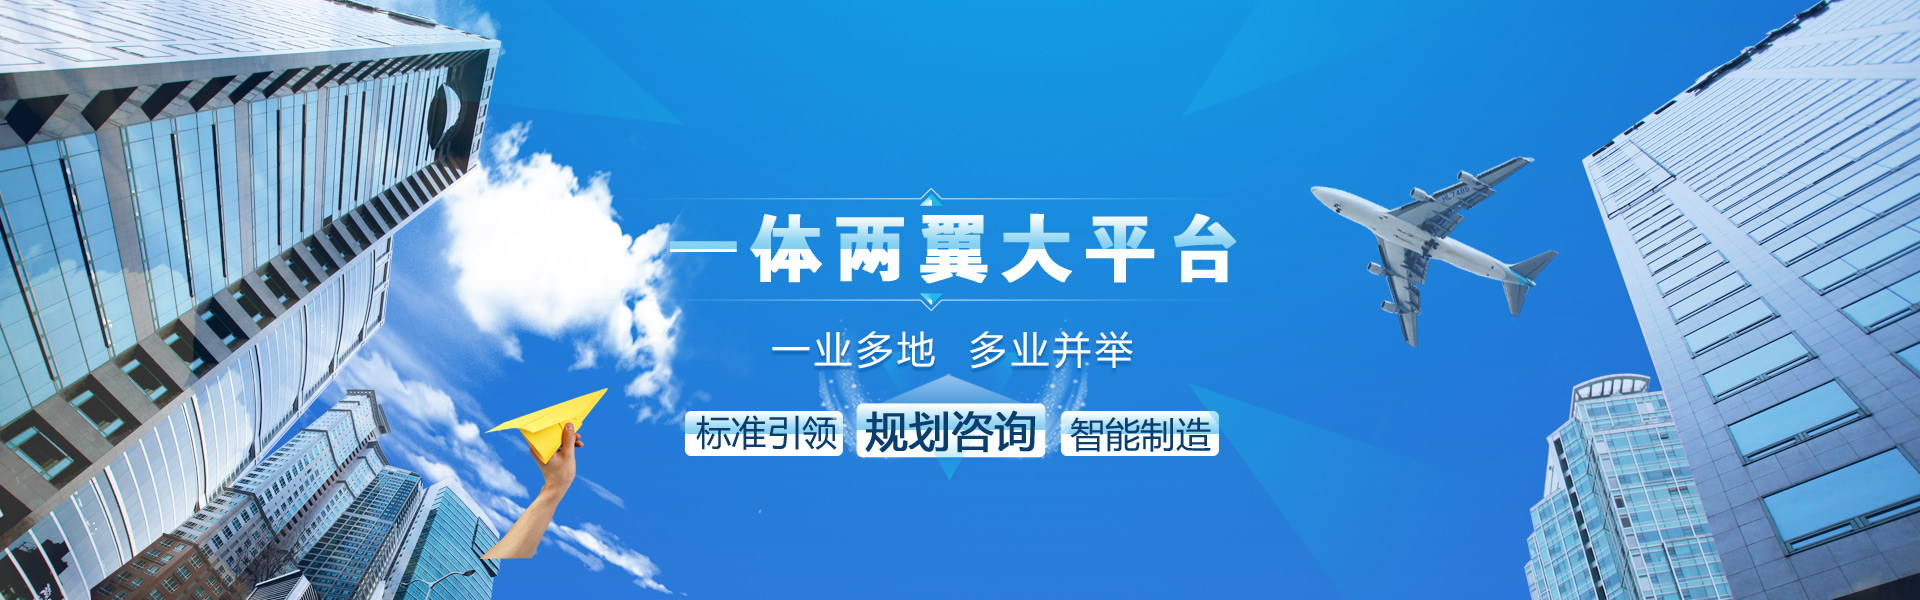
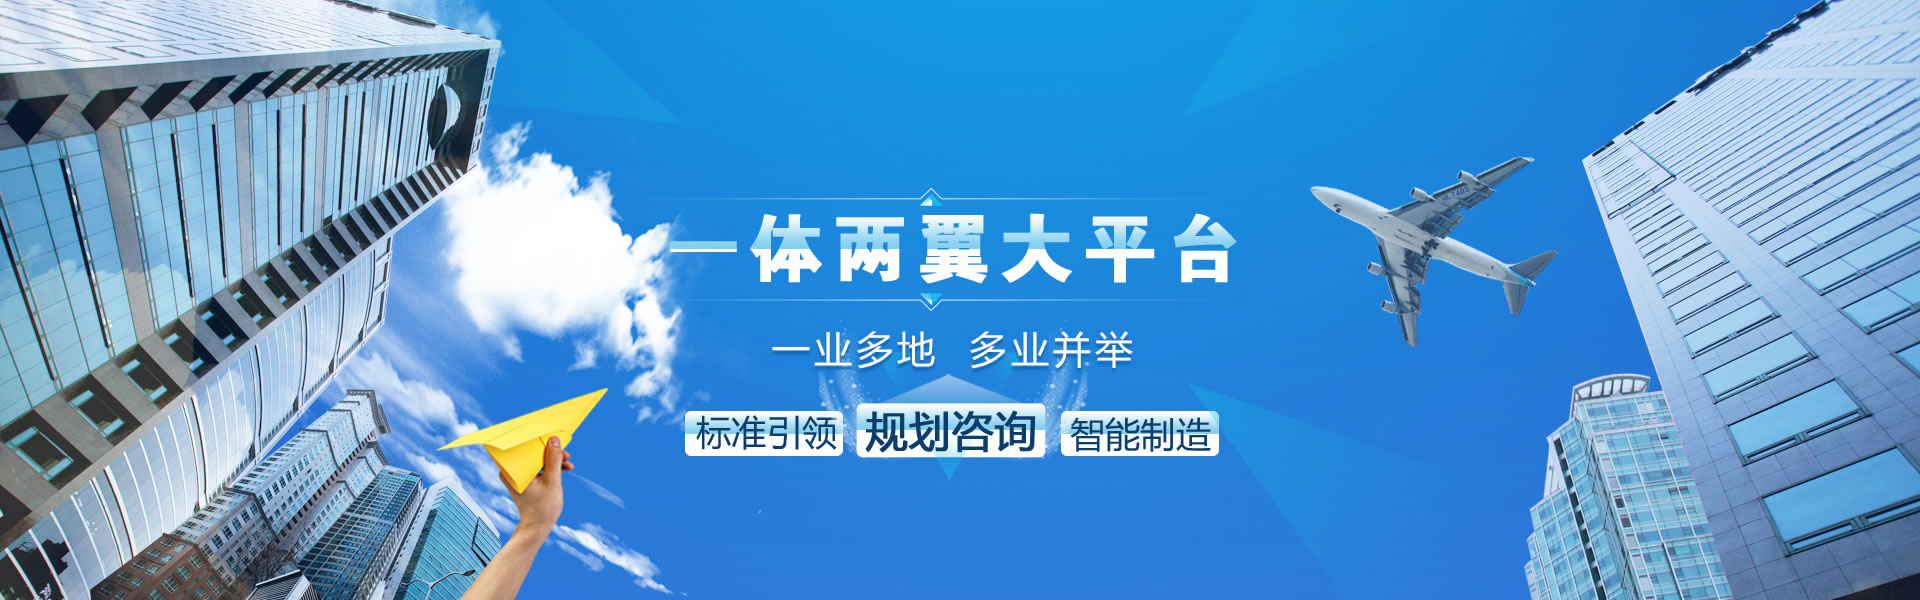
图片新闻轮播展示，子页面细节高度

Changed region(s): [[0.2188, 0.69, 0.3125, 1.0]]

diff --git a/index.html b/index.html
@@ -169,17 +169,20 @@
 					</ol>
 					<div class="carousel-inner" role="listbox">
 						<div class="item active">
-							<a href="#" style="background-image: url(imgs/banner1.jpg)">
+							<a title="中国钢结构协会钢材标准化技术委员会成立大会今在北京召开" href="#">
+                                <img alt="中国钢结构协会钢材标准化技术委员会成立大会今在北京召开" src="imgs/banner1.jpg"/>
 								<div class="carousel-caption">中国钢结构协会钢材标准化技术委员会成立大会今在北京召开</div>
 							</a>							
 						</div>
 						<div class="item">
-							<a href="#" style="background-image: url(imgs/banner2.jpg)">
+							<a title="冶金工业规划学院建院45周年特别庆典" href="#">
+                                <img alt="冶金工业规划学院建院45周年特别庆典" src="imgs/banner2.jpg" />
 								<div class="carousel-caption">冶金工业规划学院建院45周年特别庆典</div>
 							</a>
 						</div>
 						<div class="item">
-							<a href="#" style="background-image: url(imgs/banner3.jpg)">
+							<a title="热烈恭迎冶金工区刘院长来我院做指导工作" href="#">
+                                <img alt="热烈恭迎冶金工区刘院长来我院做指导工作" src="imgs/banner3.jpg" />
 						  		<div class="carousel-caption">热烈恭迎冶金工区刘院长来我院做指导工作</div>
 							</a>
 						</div>

diff --git a/css/main.css b/css/main.css
@@ -376,22 +376,16 @@ body {
 /*小播放器*/
 .meta-banner{
 	padding-right: 0;
-	/*height: 350px;*/
-	overflow: hidden;
     width:34.5%;
-}
-.meta-banner .carousel{
-	/*border:1px solid #E1E1E1;*/
-    /*padding:2px;*/
 }
 .meta-banner .carousel-inner .item a{
 	/*height: 304px;*/
 	height: 310px;
-	background-color: #EFEFEF;
-	background-position: center;
-	background-size:100% auto;
-	background-repeat: no-repeat;
+	overflow: hidden;
 	display: block;
+}
+.meta-banner .carousel-inner .item a img{
+    width:100%;
 }
 .meta-banner .carousel-inner .carousel-caption{
 	right: 0;left: 0;
@@ -881,7 +875,7 @@ body {
 .meta-wrap{
 	position: relative;
 	z-index: 50;
-	margin-top: -195px;
+	margin-top: -215px;
 }
 .meta-main-head{
     position:relative;
@@ -911,7 +905,7 @@ body {
     background:#fff;    
     position: relative;
     z-index: 100;
-    margin-top: -50px;
+    margin-top: -70px;
 }
 .meta-main>.row{
     margin:0px auto;
